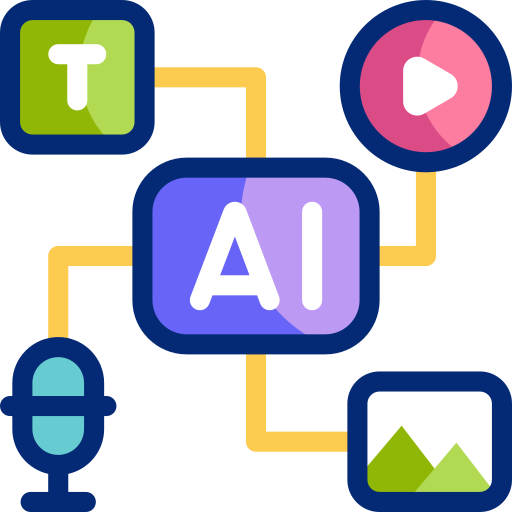
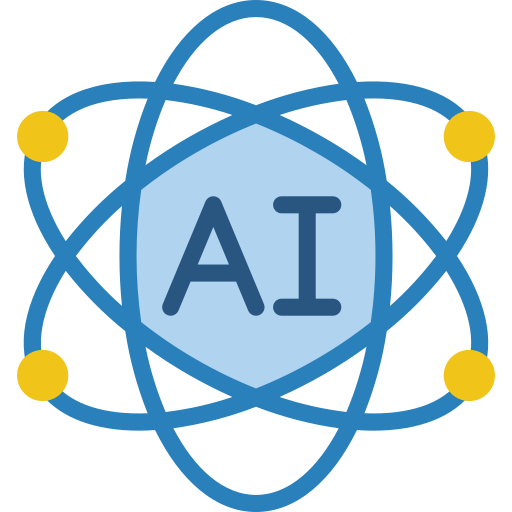
Update project

diff --git a/Frontend/02_register.html b/Frontend/02_register.html
@@ -135,7 +135,7 @@ a{
 
 </div>
 
-```javascript
+
 <script>
 
 // PASSWORD CHECK